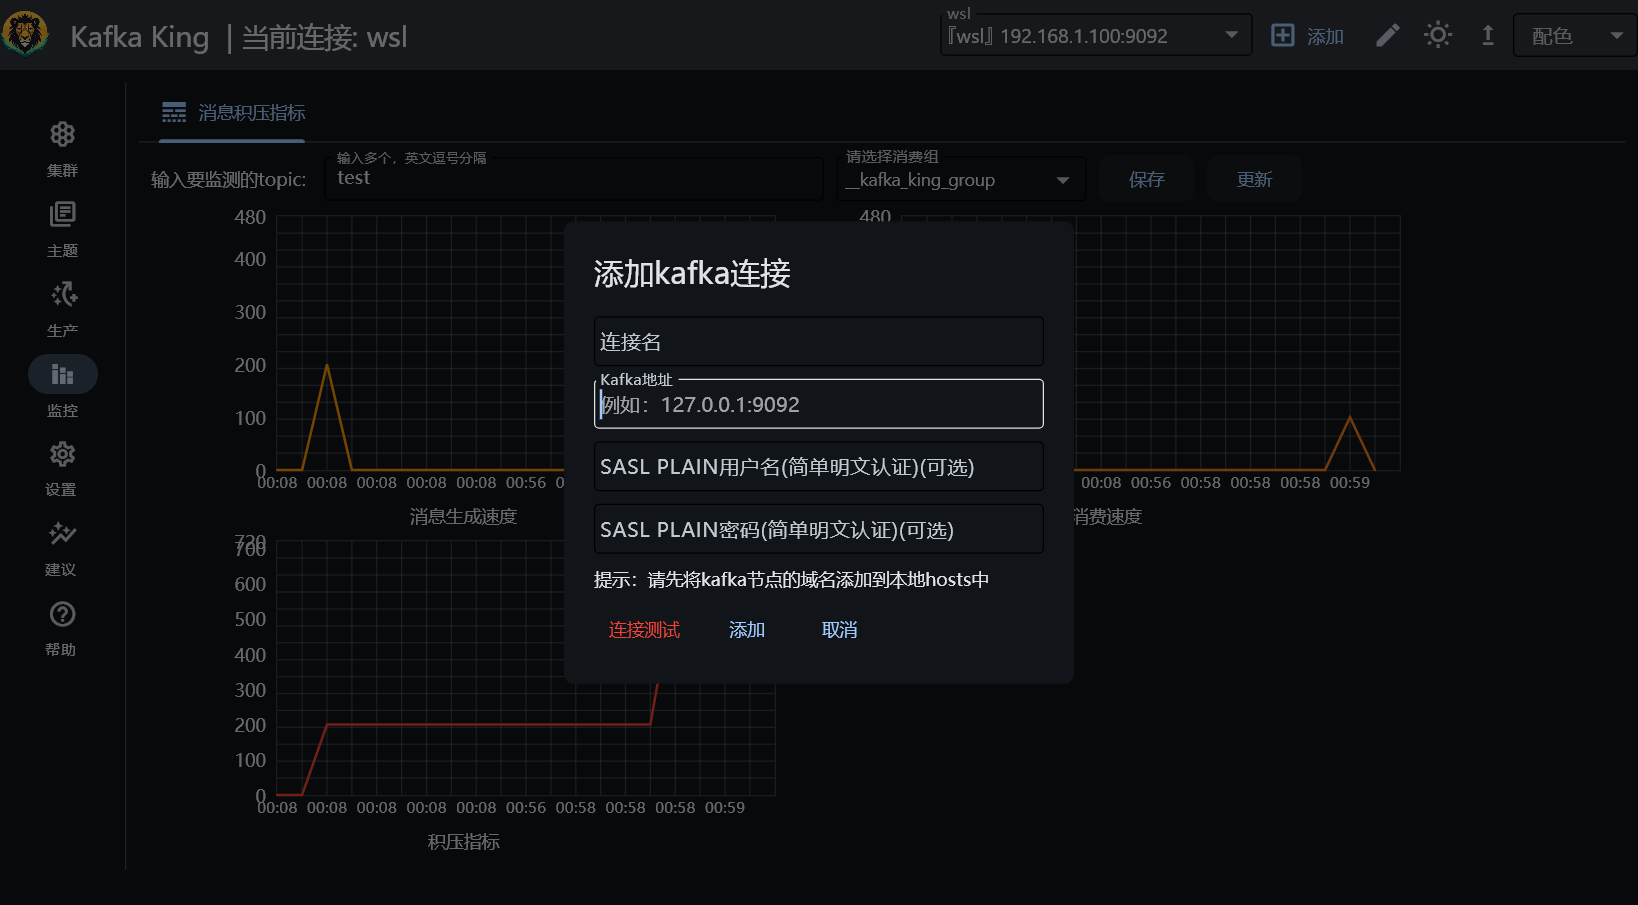
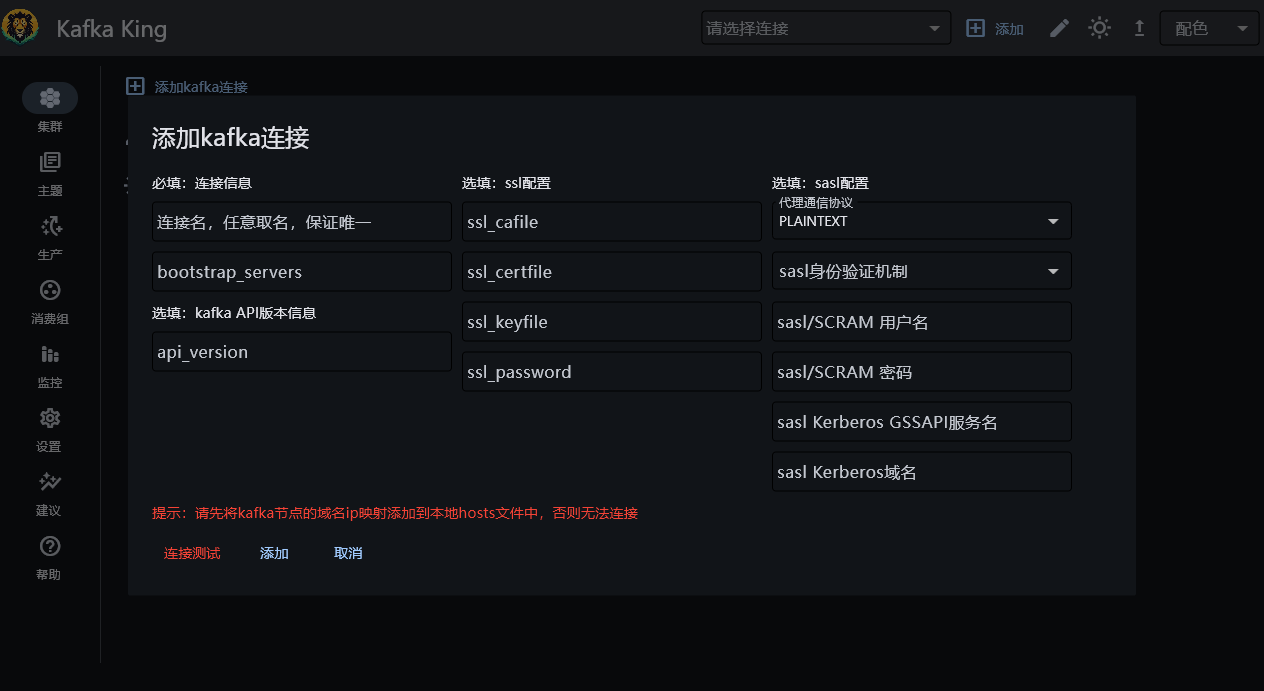
fix: readme

diff --git a/README.md b/README.md
@@ -25,7 +25,7 @@
 
 # Kafka-King功能清单
 - [x] 查看集群节点列表（完成）
-- [x] 支持PLAINTEXT、SASL PLAINTEXT用户名密码认证（完成）
+- [x] 支持PLAIN、SSL、SASL、kerberos认证（完成）
 - [x] 创建（支持批量）、删除主题，指定副本数、分区数（完成）
 - [x] 支持根据消费者组统计每个topic的消息总量、提交总量、积压量（完成）
 - [x] 支持查看topic的分区的详细信息（offset），并支持添加额外的分区（完成）
@@ -34,7 +34,7 @@
 - [x] 支持图表监控多个topic的消息生产性能、消费性能、积压情况（完成）
 - [x] 健康检查（完成）
 - [x] 多彩主题（完成）
-- [x] 支持查看消费者组、消费者及订阅的topic、分区
+- [x] 支持查看消费者组、消费者及订阅的topic、分区（完成）
 - ……
 
 # 下载
@@ -50,8 +50,9 @@
 
 
 
-添加kafka连接，支持添加SASL PLAINTEXT用户名密码认证
+添加kafka连接，支持ssl、sasl、kerberos认证
 
+kafka api 版本不写会自动推测(明确知道的建议填写)
 ![](docs/snap/p0.png)
 
 
